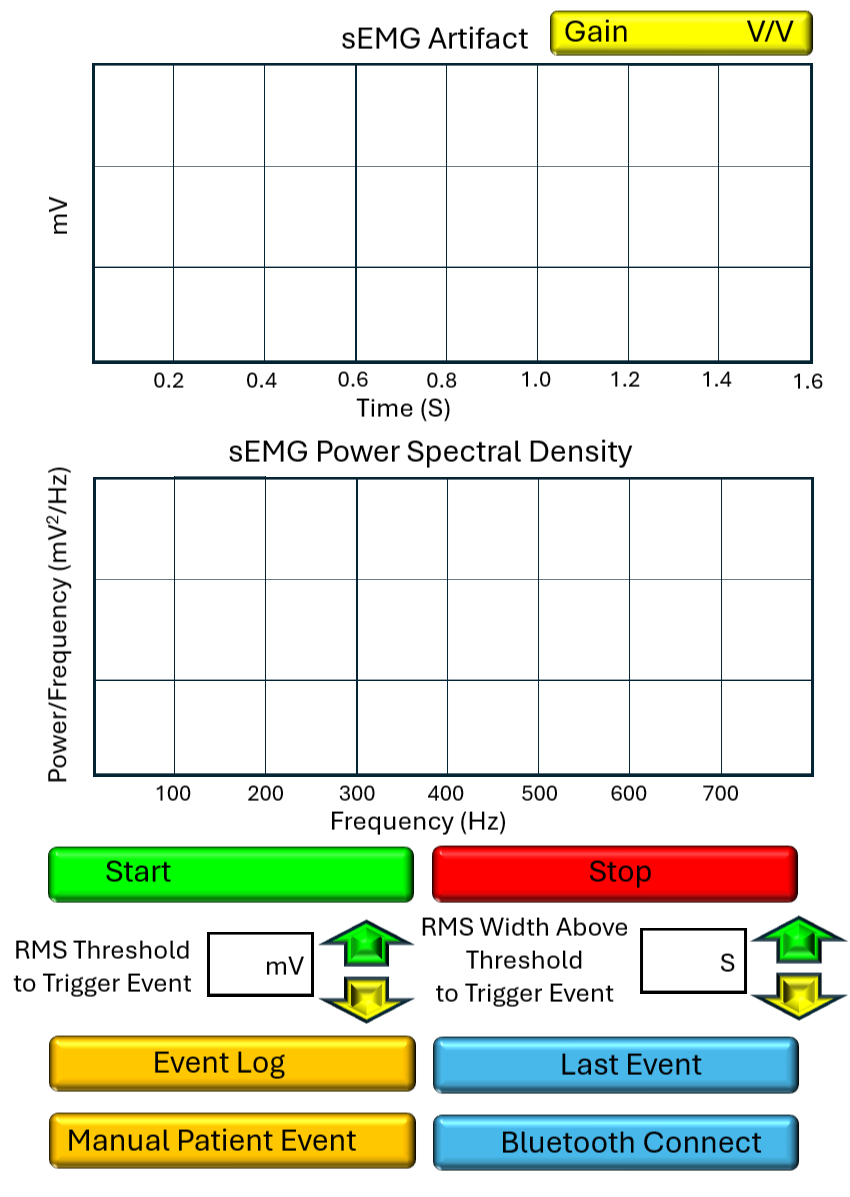
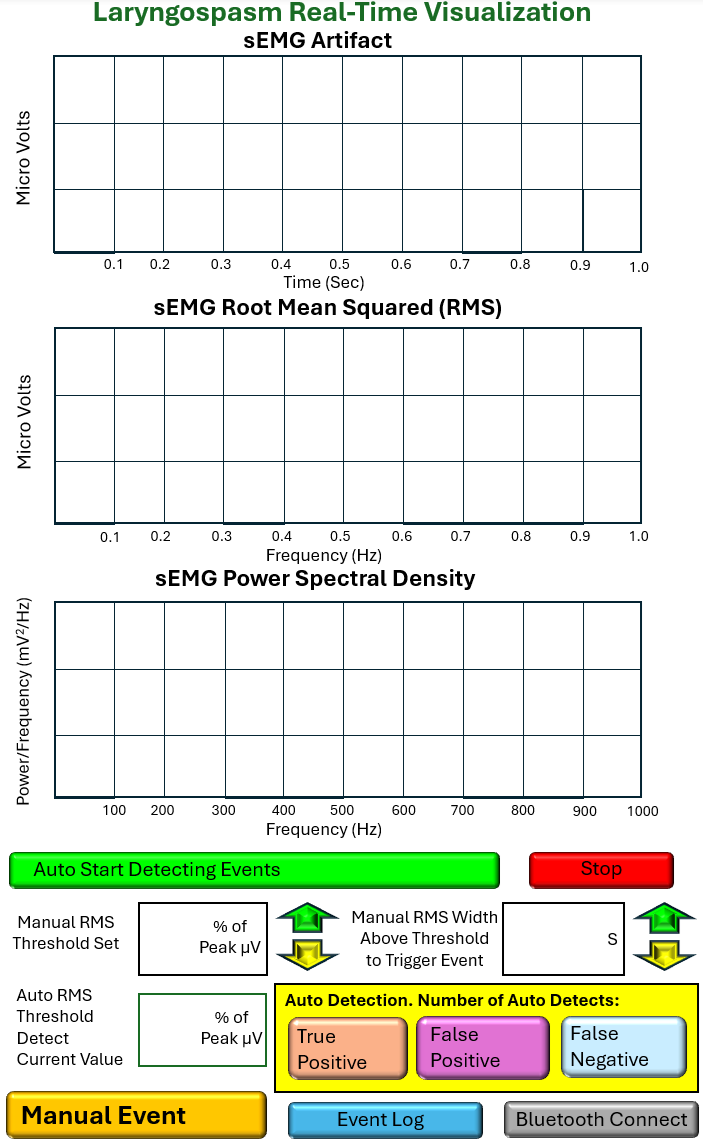
3 Signals Show. Out of Bounds.

diff --git a/app/src/main/java/com/esark/gasp/GameScreen.java b/app/src/main/java/com/esark/gasp/GameScreen.java
@@ -197,8 +197,8 @@ public class GameScreen extends Screen implements Input {
         //  xStop = 301;
         int u = 0;
         
-        xStart = 3350;
-        xStop = 3335;
+        xStart = 1600;
+        xStop = 1585;
         for (int n = 499; n > 2; n --) {
             g.drawBlackLine(xStart, (int) A2DVal[n], xStop, (int) (A2DVal[n - 1]), 0);
             xStart = xStop;
@@ -216,14 +216,20 @@ public class GameScreen extends Screen implements Input {
         double[] smoothedRMS = MovingAverageCalculator.calculateMovingAverage(movingRMS, 10);        // +++++++++++++++++++++++++++++++++++++++++++++++++++++++++++++++++++++++++++++++++
         
         if (smoothedRMS.length > 2) {
-            xStart = 3250;
-            xStop = 3235;
+            xStart = 1600;
+            xStop = 1585;
+            //xStop = 3235;
             for (int n = smoothedRMS.length - 1; n > 1; n--) {
-                // Drawing smoothed RMS in red line for visibility, feel free to change back to black
-                g.drawBlueLine(xStart, (int) (smoothedRMS[n] + 1600), xStop, (int) ((smoothedRMS[n - 1]) + 1600), 0);
+                // 1. Calculate the RMS amplitude (deviation from the 1360 baseline)
+                // 2. Plot it relative to your target y = 1050 (Centered symmetrically)
+                double rmsAmplitude = Math.abs(smoothedRMS[n] - 1360);
+                double rmsAmplitudeNext = Math.abs(smoothedRMS[n - 1] - 1360);
+
+                g.drawBlueLine(xStart, (int) (200 + rmsAmplitude), xStop, (int) (200 + rmsAmplitudeNext), 0);
+
                 xStart = xStop;
                 xStop -= 15;
-                if (xStop <= 410) {
+                if (xStop <= 180) {
                     break;
                 }
             }
@@ -248,13 +254,13 @@ public class GameScreen extends Screen implements Input {
             }
             // System.out.println("Frequency Bin " + i + ": PSD = " + psdResult[i]);
         }
-        xStart = 400;
-        xStop = 410;
+        xStart = 170;
+        xStop = 180;
         for (int i = 1; i < psdResult.length; i++) {
-            g.drawRedLine(xStart, (int) psdResult[i - 1], xStop, (int) psdResult[i], 0);
+            g.drawRedLine(xStart, (int) psdResult[i - 1] - 1695, xStop, (int) psdResult[i] - 1695, 0);
             xStart = xStop;
             xStop += 10;
-            if(xStop >= 3370){
+            if(xStop >= 1600){
                 break;
             }
         }

diff --git a/app/src/main/java/com/esark/framework/AndroidGame.java b/app/src/main/java/com/esark/framework/AndroidGame.java
@@ -185,7 +185,7 @@ public abstract class AndroidGame extends Activity implements Game {
                                         for (int k = 0; k < 499; k++) {
                                             A2DVal[k] = A2DVal[k + 1];      //Shift all values 1 to the right. Rolling buffer
                                         }
-                                        A2DVal[499] = (((double) totalA2DVal / -3.0 + 1400));
+                                        A2DVal[499] = (((double) totalA2DVal / -4.0 + 1200));
                                         if(A2DVal[499] <= 60)
                                         {
                                             A2DVal[499]  = 60;